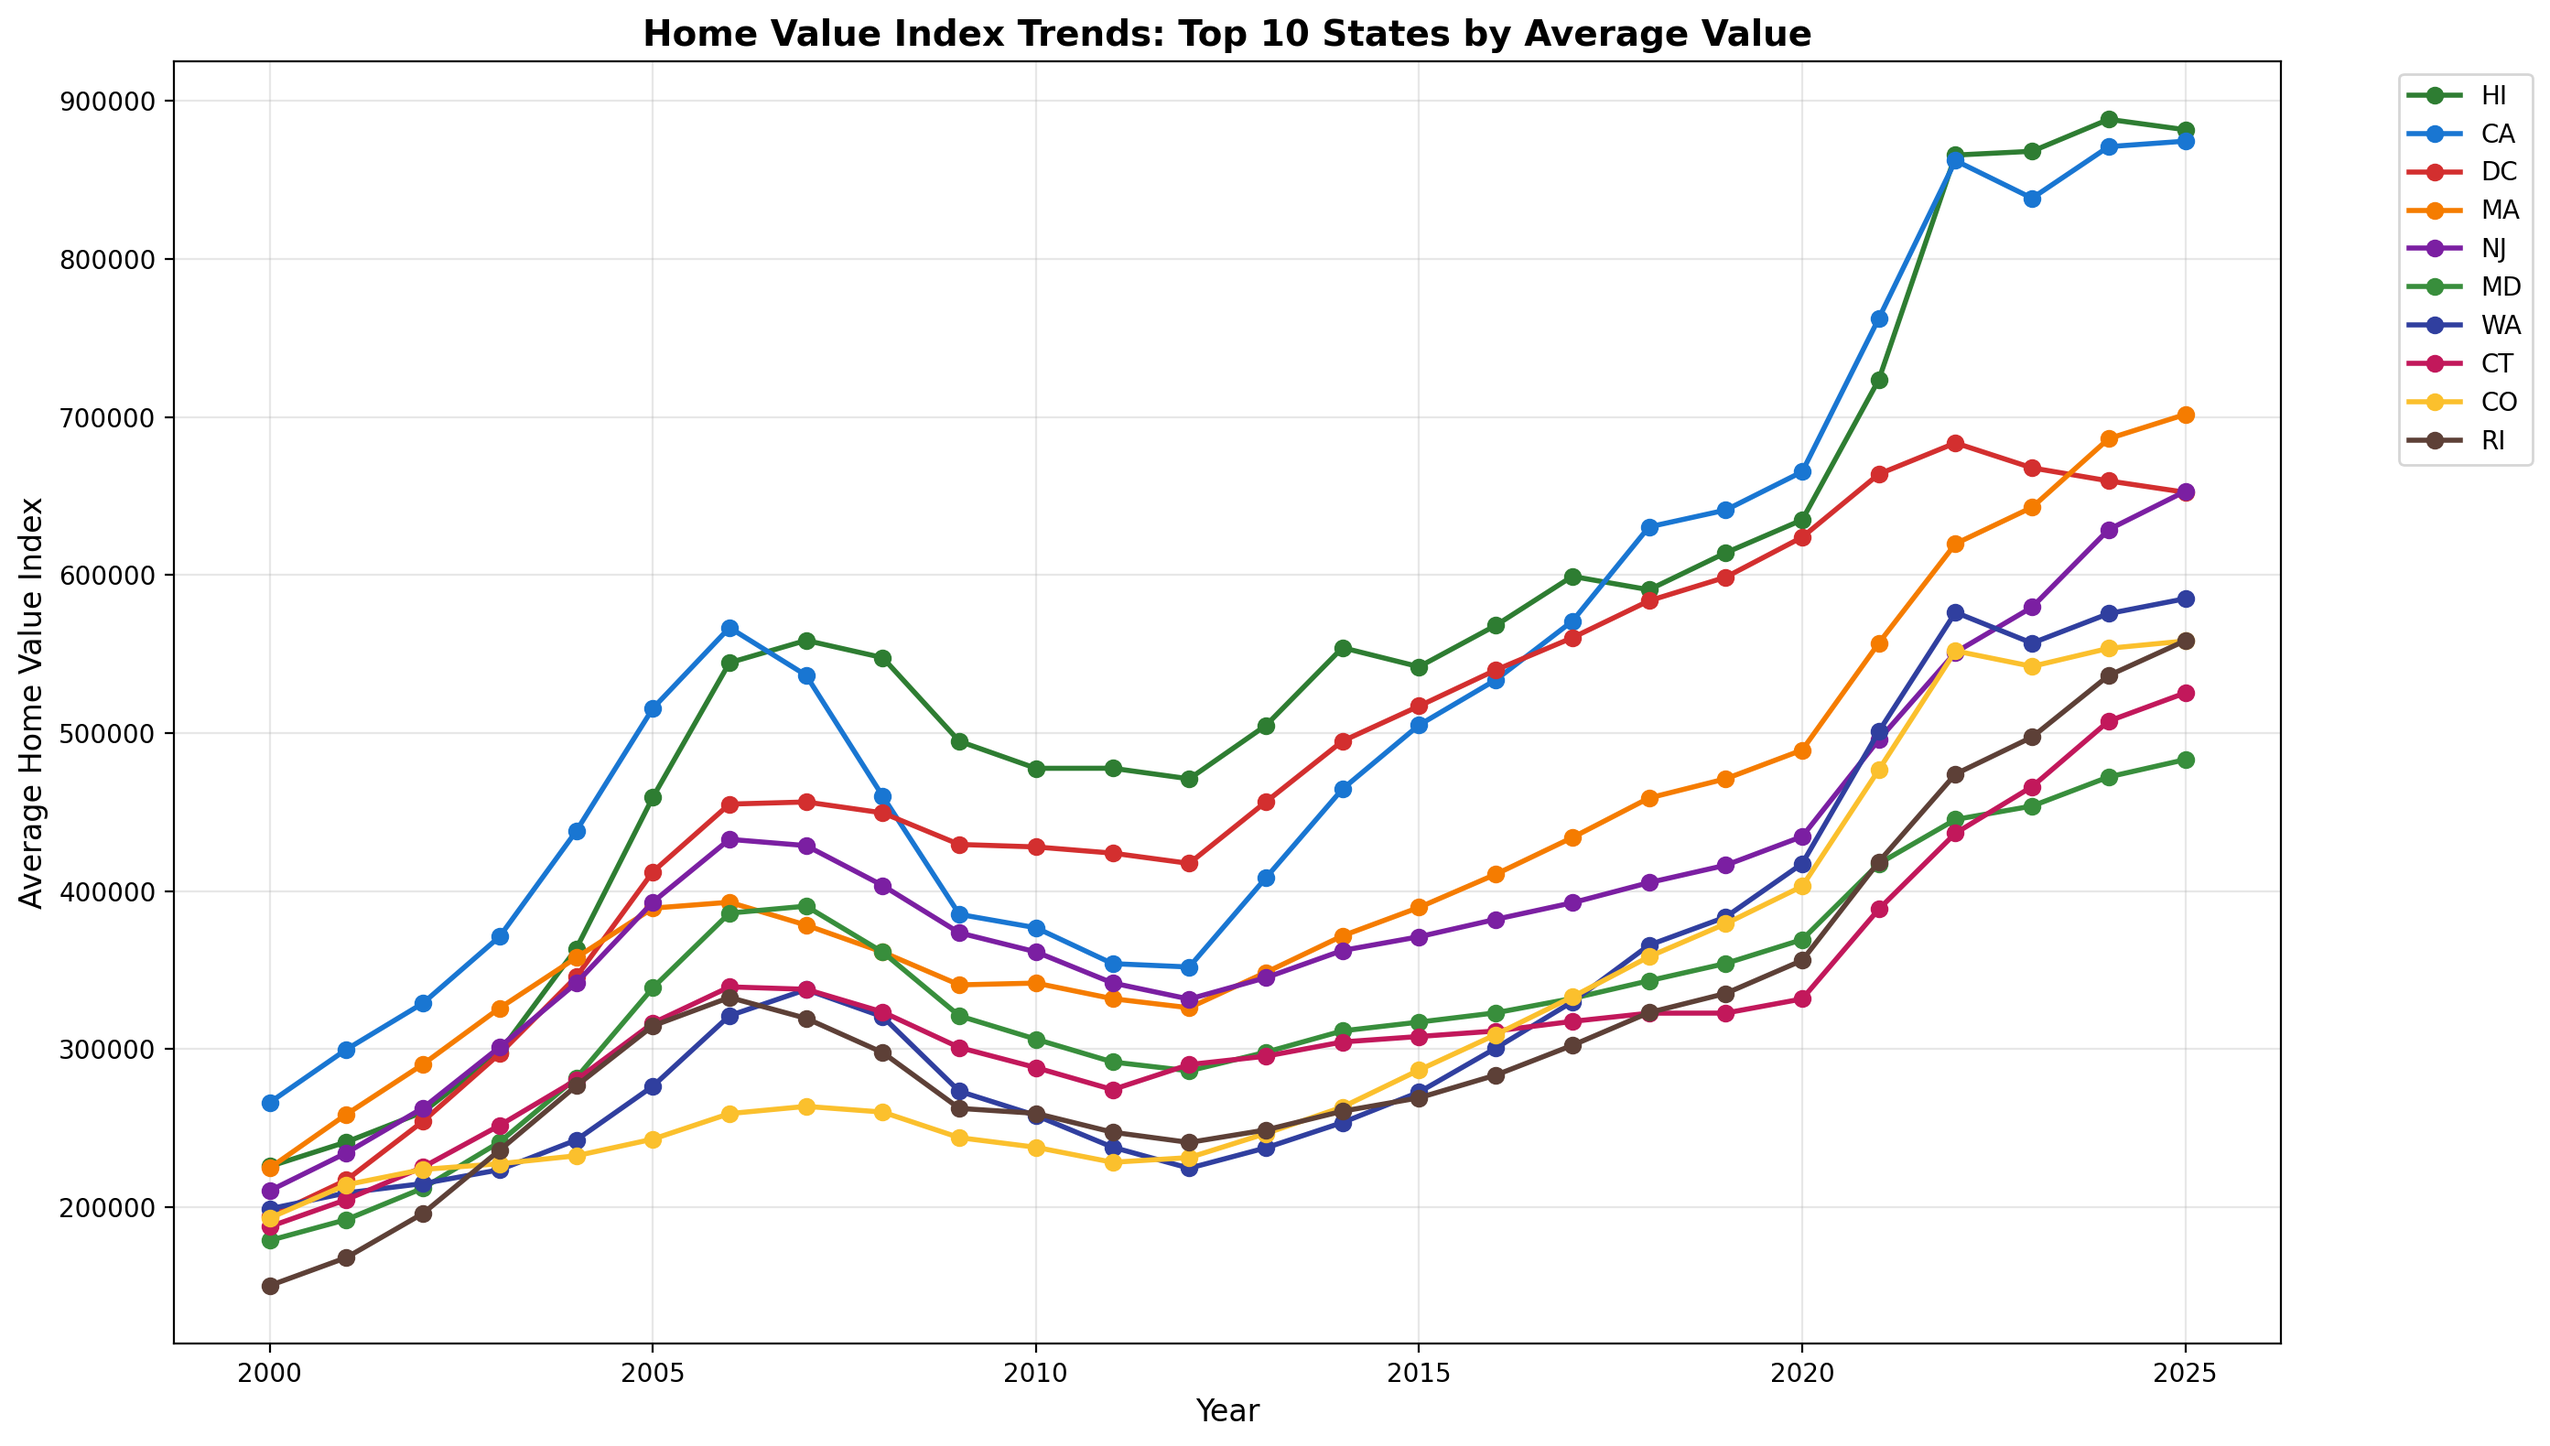
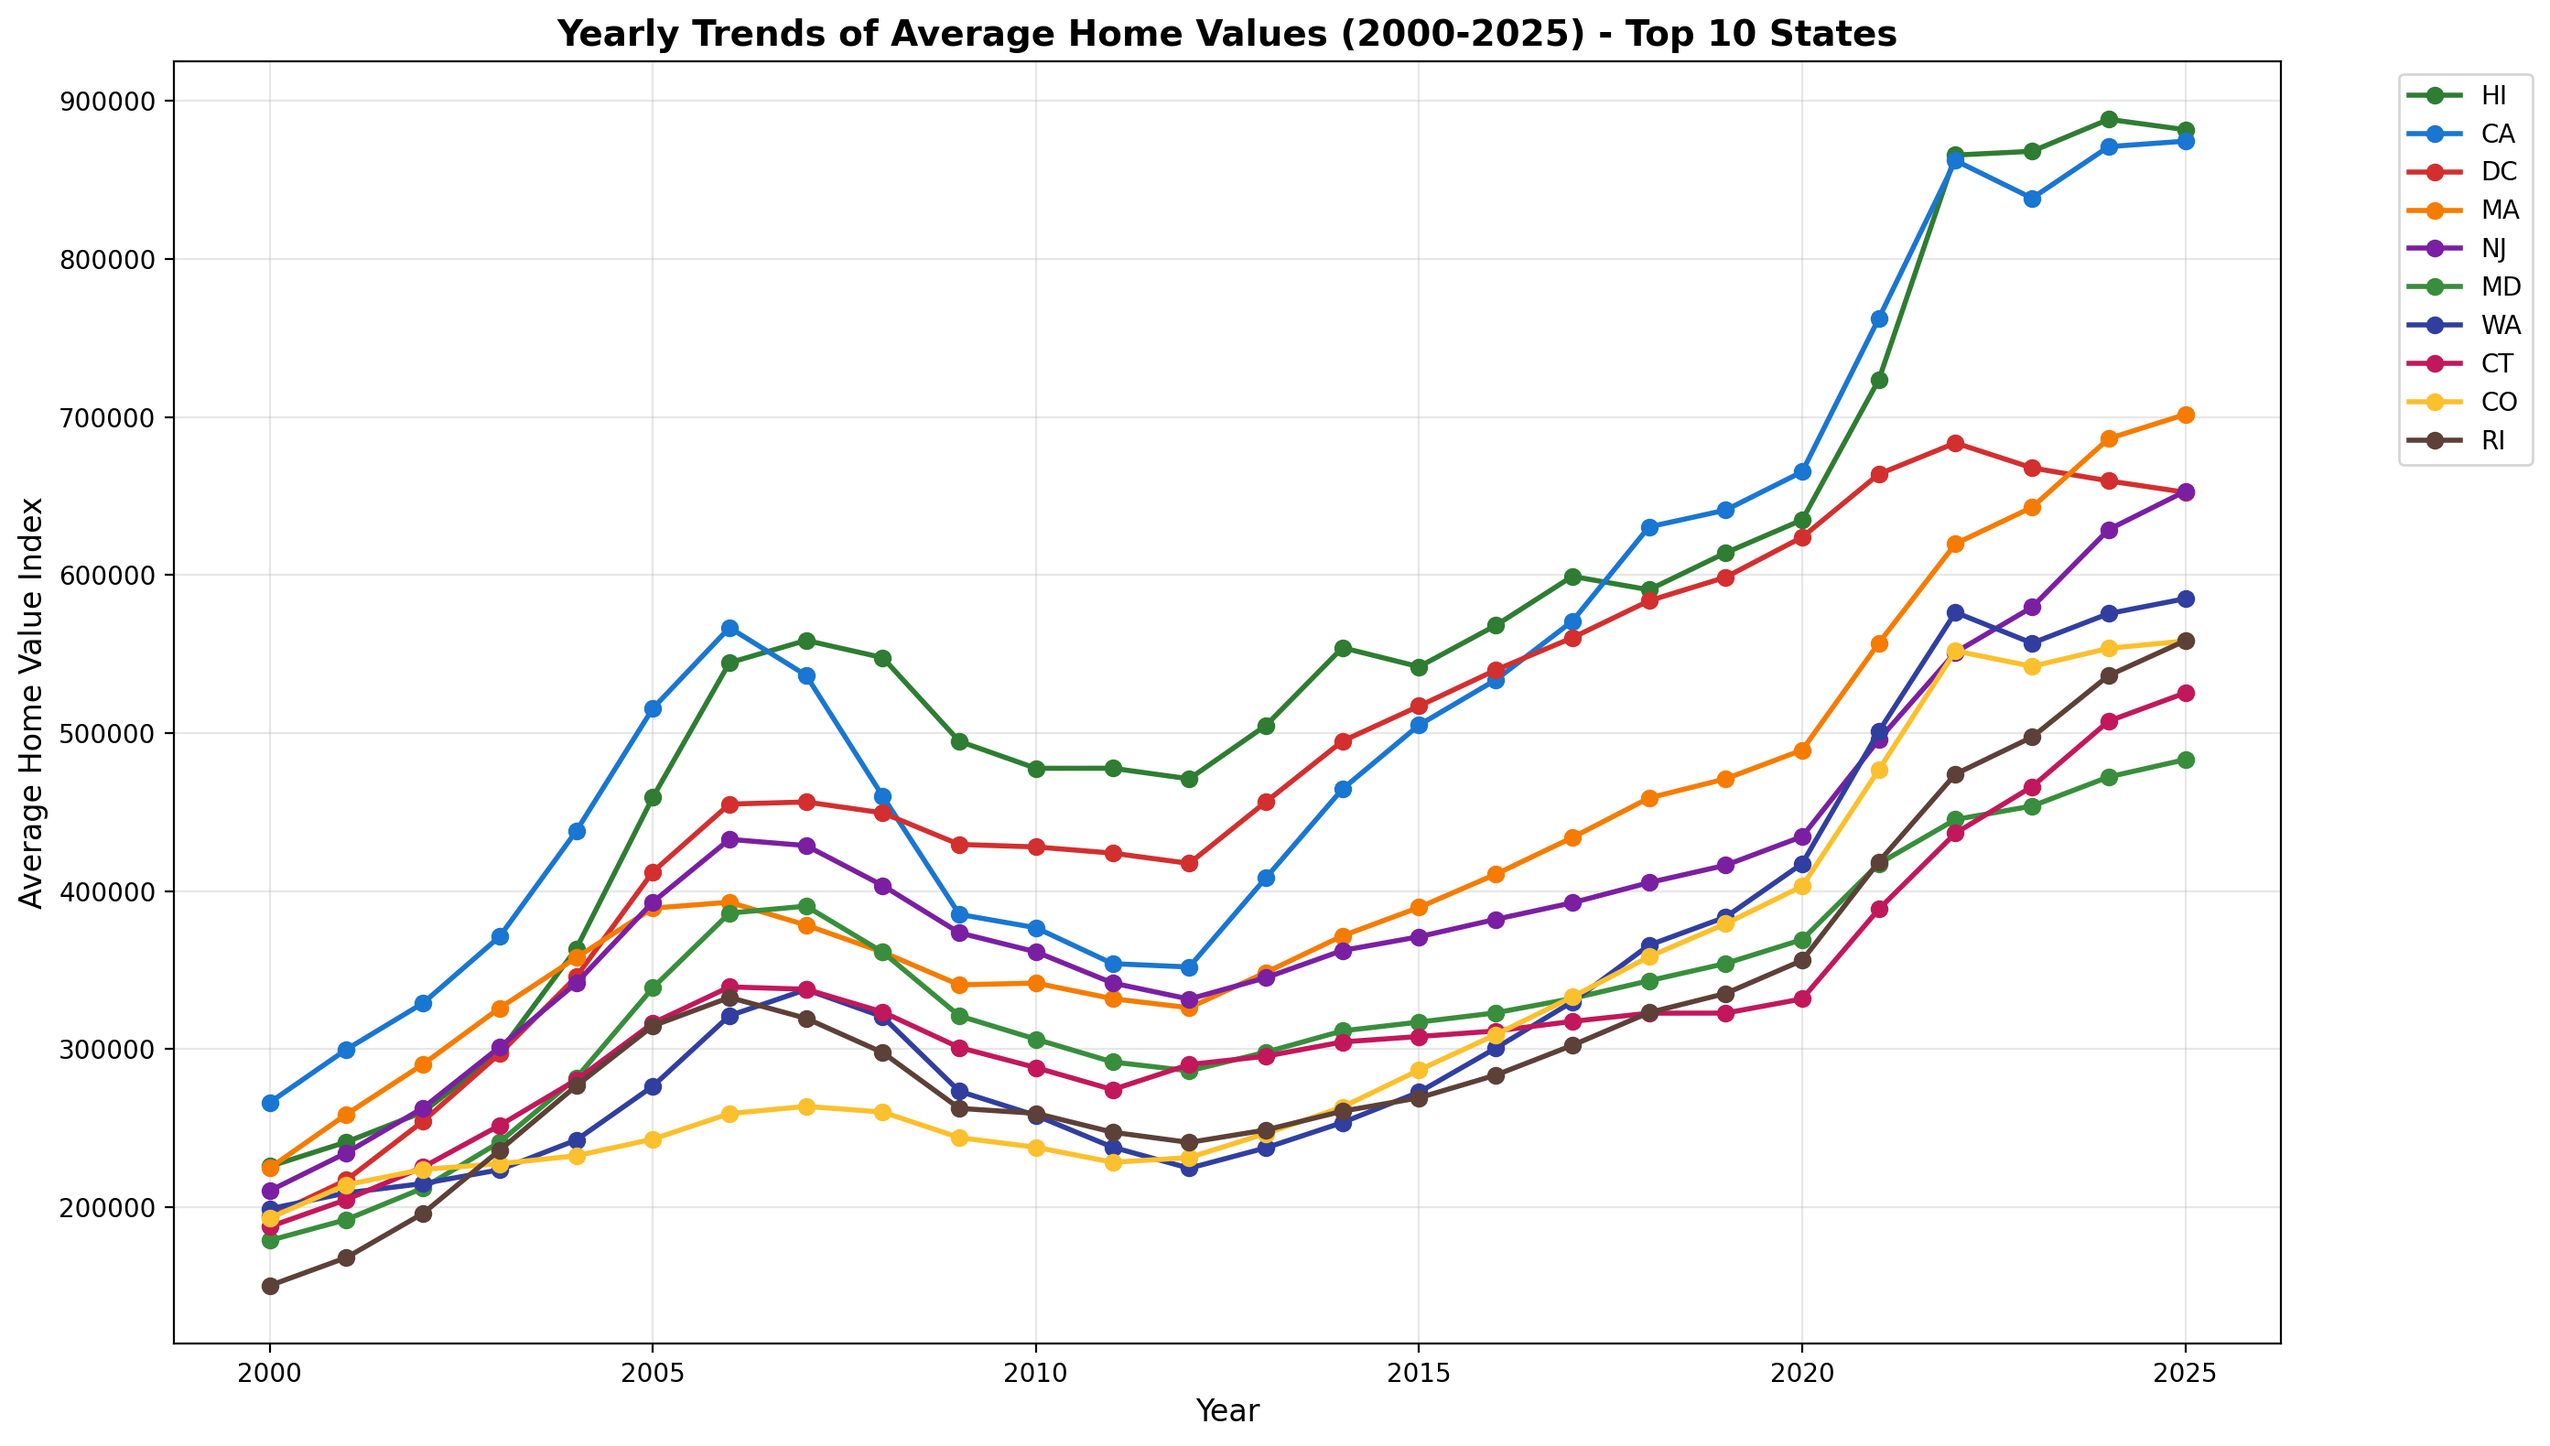
Update Q1 PNG chart title to match Excel chart: 'Yearly Trends of Average Home Values (2000-2025) - Top 10 States'

Changed region(s): [[0.2186, 0.0, 0.7495, 0.031]]

diff --git a/housing-portfolio/scripts/run_analysis.py b/housing-portfolio/scripts/run_analysis.py
@@ -96,7 +96,7 @@ def run_queries(con: duckdb.DuckDBPyConnection):
             state_data = df1_sample[df1_sample['statename'] == state]
             plt.plot(state_data['year'], state_data['avg_yearly_index'], marker='o', label=state, linewidth=2, color=colors[i % len(colors)])
         
-        plt.title('Home Value Index Trends: Top 10 States by Average Value', fontsize=14, fontweight='bold')
+        plt.title('Yearly Trends of Average Home Values (2000-2025) - Top 10 States', fontsize=14, fontweight='bold')
         plt.xlabel('Year', fontsize=12)
         plt.ylabel('Average Home Value Index', fontsize=12)
         plt.legend(bbox_to_anchor=(1.05, 1), loc='upper left')
